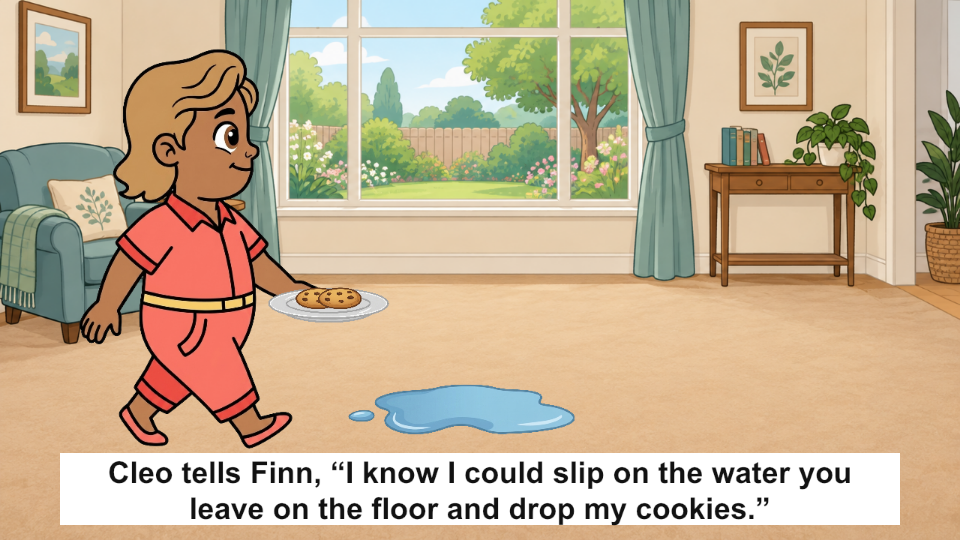
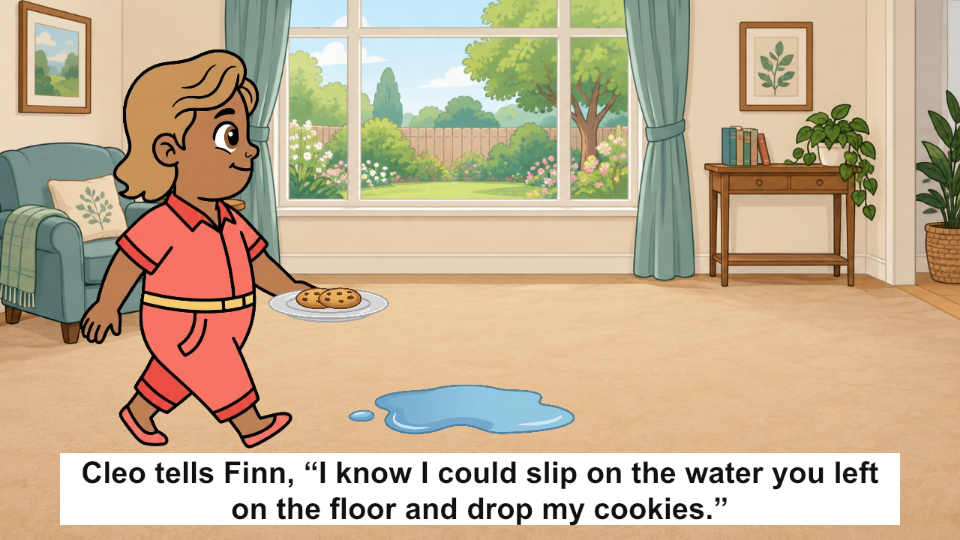
Refresh consent spill knowledge slide from corrected decks

Changed region(s): [[0.0625, 0.8296, 0.9375, 0.9778]]

diff --git a/code/experiments/experiment2/consent/adults/configuration.js b/code/experiments/experiment2/consent/adults/configuration.js
@@ -6,7 +6,7 @@ globalThis.TORT_CONSENT_CONDITIONS = {
     "assetRoot": "",
     "sessionNamespace": "tort_adult_consent_v1_consent_",
     "studyVersion": "adult-consent-1.0.0",
-    "materialsRevision": "436bd840a774",
+    "materialsRevision": "db1630cd45a4",
     "scenarios": [
       {
         "p_name": "Finn",
@@ -19,7 +19,7 @@ globalThis.TORT_CONSENT_CONDITIONS = {
         "v_initial": 2,
         "v_after_harm": 0,
         "harm_amount": 2,
-        "event_text": "Before the loss, Cleo tells Finn, “I know I could slip on the water you leave on the floor and drop my cookies. I’m okay with that.” Finn spills water and doesn't clean it up. Cleo slips on the wet floor and 2 of Cleo's cookies are destroyed.",
+        "event_text": "Before the loss, Cleo tells Finn, “I know I could slip on the water you left on the floor and drop my cookies. I’m okay with that.” Finn spills water and doesn't clean it up. Cleo slips on the wet floor and 2 of Cleo's cookies are destroyed.",
         "event_title": "Finn Spills Water — Cleo Slips",
         "scenario_id": 2,
         "scenario_key": "negligence_spill",
@@ -90,10 +90,10 @@ globalThis.TORT_CONSENT_CONDITIONS = {
           },
           {
             "slide_number": 9,
-            "text": "Cleo tells Finn, “I know I could slip on the water you leave on the floor and drop my cookies.”",
-            "image": "images/review/consent/negligence_spill_09.png?v=a43f1b1563e7",
+            "text": "Cleo tells Finn, “I know I could slip on the water you left on the floor and drop my cookies.”",
+            "image": "images/review/consent/negligence_spill_09.png?v=780fd707bdf2",
             "slide_role": "knowledge",
-            "statement": "I know I could slip on the water you leave on the floor and drop my cookies.",
+            "statement": "I know I could slip on the water you left on the floor and drop my cookies.",
             "speaker": "Cleo",
             "listener": "Finn",
             "slide_id": "negligence_spill:knowledge"
@@ -136,9 +136,9 @@ globalThis.TORT_CONSENT_CONDITIONS = {
         "reminder_image": "images/review/consent/negligence_spill_13.png?v=91fe9e077409",
         "story_cookie_artwork_count": 7,
         "consent_condition": "consent",
-        "consent_knowledge_text": "I know I could slip on the water you leave on the floor and drop my cookies.",
+        "consent_knowledge_text": "I know I could slip on the water you left on the floor and drop my cookies.",
         "consent_response_text": "I’m okay with that.",
-        "victim_statement": "I know I could slip on the water you leave on the floor and drop my cookies. I’m okay with that.",
+        "victim_statement": "I know I could slip on the water you left on the floor and drop my cookies. I’m okay with that.",
         "base_material_experiment": 1,
         "base_material_condition": "victim_not_careless",
         "base_event_text": "Finn spills water and doesn't clean it up. Cleo slips on the wet floor and 2 of Cleo's cookies are destroyed."
@@ -999,7 +999,7 @@ globalThis.TORT_CONSENT_CONDITIONS = {
     "assetRoot": "",
     "sessionNamespace": "tort_adult_consent_v1_no_consent_",
     "studyVersion": "adult-consent-1.0.0",
-    "materialsRevision": "436bd840a774",
+    "materialsRevision": "db1630cd45a4",
     "scenarios": [
       {
         "p_name": "Finn",
@@ -1012,7 +1012,7 @@ globalThis.TORT_CONSENT_CONDITIONS = {
         "v_initial": 2,
         "v_after_harm": 0,
         "harm_amount": 2,
-        "event_text": "Before the loss, Cleo tells Finn, “I know I could slip on the water you leave on the floor and drop my cookies. I’m not okay with that.” Finn spills water and doesn't clean it up. Cleo slips on the wet floor and 2 of Cleo's cookies are destroyed.",
+        "event_text": "Before the loss, Cleo tells Finn, “I know I could slip on the water you left on the floor and drop my cookies. I’m not okay with that.” Finn spills water and doesn't clean it up. Cleo slips on the wet floor and 2 of Cleo's cookies are destroyed.",
         "event_title": "Finn Spills Water — Cleo Slips",
         "scenario_id": 2,
         "scenario_key": "negligence_spill",
@@ -1083,10 +1083,10 @@ globalThis.TORT_CONSENT_CONDITIONS = {
           },
           {
             "slide_number": 9,
-            "text": "Cleo tells Finn, “I know I could slip on the water you leave on the floor and drop my cookies.”",
-            "image": "images/review/no_consent/negligence_spill_09.png?v=a43f1b1563e7",
+            "text": "Cleo tells Finn, “I know I could slip on the water you left on the floor and drop my cookies.”",
+            "image": "images/review/no_consent/negligence_spill_09.png?v=780fd707bdf2",
             "slide_role": "knowledge",
-            "statement": "I know I could slip on the water you leave on the floor and drop my cookies.",
+            "statement": "I know I could slip on the water you left on the floor and drop my cookies.",
             "speaker": "Cleo",
             "listener": "Finn",
             "slide_id": "negligence_spill:knowledge"
@@ -1129,9 +1129,9 @@ globalThis.TORT_CONSENT_CONDITIONS = {
         "reminder_image": "images/review/no_consent/negligence_spill_13.png?v=91fe9e077409",
         "story_cookie_artwork_count": 7,
         "consent_condition": "no_consent",
-        "consent_knowledge_text": "I know I could slip on the water you leave on the floor and drop my cookies.",
+        "consent_knowledge_text": "I know I could slip on the water you left on the floor and drop my cookies.",
         "consent_response_text": "I’m not okay with that.",
-        "victim_statement": "I know I could slip on the water you leave on the floor and drop my cookies. I’m not okay with that.",
+        "victim_statement": "I know I could slip on the water you left on the floor and drop my cookies. I’m not okay with that.",
         "base_material_experiment": 1,
         "base_material_condition": "victim_not_careless",
         "base_event_text": "Finn spills water and doesn't clean it up. Cleo slips on the wet floor and 2 of Cleo's cookies are destroyed."

diff --git a/code/experiments/experiment2/consent/adults/materials-preview.html b/code/experiments/experiment2/consent/adults/materials-preview.html
@@ -7,9 +7,9 @@
 <nav><a href="#negligence_spill">Cleo</a> · <a href="#intentional_hit">Sasha</a> · <a href="#intentional_throw">Rex</a> · <a href="#negligence_phone">Ruby</a> · <a href="#strict_liability_alligator">Ella</a> · <a href="#strict_liability_wolf">Andy</a> · <a href="#control_wind">Katie</a> · <a href="#control_squirrel">Eric</a></nav><section id="negligence_spill">
 <h2>Finn Spills Water — Cleo Slips</h2>
 <p><a href="pilot-preview.html?condition=consent&amp;case=negligence_spill&amp;autostart=1">Play consent case</a> · <a href="pilot-preview.html?condition=no_consent&amp;case=negligence_spill&amp;autostart=1">Play no-consent case</a></p>
-<figure class="knowledge"><figcaption>Same knowledge statement in both conditions</figcaption><a href="images/review/consent/negligence_spill_09.png?v=a43f1b1563e7" target="_blank"><img width="960" height="540" loading="lazy" src="images/review/consent/negligence_spill_09.png?v=a43f1b1563e7" alt="Cleo tells Finn, “I know I could slip on the water you leave on the floor and drop my cookies.”"></a></figure>
+<figure class="knowledge"><figcaption>Same knowledge statement in both conditions</figcaption><a href="images/review/consent/negligence_spill_09.png?v=780fd707bdf2" target="_blank"><img width="960" height="540" loading="lazy" src="images/review/consent/negligence_spill_09.png?v=780fd707bdf2" alt="Cleo tells Finn, “I know I could slip on the water you left on the floor and drop my cookies.”"></a></figure>
 <div class="responses"><figure><figcaption>Consent</figcaption><a href="images/review/consent/negligence_spill_10.png?v=f63b9b7ae1c6" target="_blank"><img width="960" height="540" loading="lazy" src="images/review/consent/negligence_spill_10.png?v=f63b9b7ae1c6" alt="Cleo tells Finn, “I’m okay with that.”"></a></figure><figure><figcaption>No consent</figcaption><a href="images/review/no_consent/negligence_spill_10.png?v=4022873899c0" target="_blank"><img width="960" height="540" loading="lazy" src="images/review/no_consent/negligence_spill_10.png?v=4022873899c0" alt="Cleo tells Finn, “I’m not okay with that.”"></a></figure></div>
-<p>Complete editable case: <a href="slides/consent/negligence_spill.pptx?v=def8ed040c12">Consent PowerPoint</a> · <a href="slides/no_consent/negligence_spill.pptx?v=e5397de1599d">No-consent PowerPoint</a></p>
+<p>Complete editable case: <a href="slides/consent/negligence_spill.pptx?v=af31e351c480">Consent PowerPoint</a> · <a href="slides/no_consent/negligence_spill.pptx?v=774cee960771">No-consent PowerPoint</a></p>
 <details><summary>Story slides immediately before and after the statements</summary><div class="responses"><figure><figcaption>Before</figcaption><img width="960" height="540" loading="lazy" src="images/review/consent/negligence_spill_08.png?v=af22f0ff495f" alt="Cleo walks in."></figure><figure><figcaption>After</figcaption><img width="960" height="540" loading="lazy" src="images/review/consent/negligence_spill_11.png?v=c1c76f0709a3" alt="Oh no! Cleo slips on the water!"></figure></div></details>
 </section>
 <section id="intentional_hit">

diff --git a/code/experiments/experiment2/consent/adults/pilot-preview.html b/code/experiments/experiment2/consent/adults/pilot-preview.html
@@ -40,7 +40,7 @@
   </div>
   <div id="jspsych-target"></div>
   <script>globalThis.TORT_LOCAL_OPTIONS={review:true,mute:true};</script>
-  <script src="configuration.js?v=08eaa7760798"></script>
+  <script src="configuration.js?v=4b6ee031c2d0"></script>
   <script src="study.js?v=0122cb8ea5cf"></script>
   <script src="review.js?v=f8085118f955"></script>
 </body>

diff --git a/code/experiments/experiment2/consent/adults/index.html b/code/experiments/experiment2/consent/adults/index.html
@@ -12,7 +12,7 @@
 </head>
 <body>
   <div id="jspsych-target"><p style="text-align:center;font:18px system-ui;padding:40px">Loading study…</p></div>
-  <script src="configuration.js?v=08eaa7760798"></script>
+  <script src="configuration.js?v=4b6ee031c2d0"></script>
   <script src="study.js?v=0122cb8ea5cf"></script>
 </body>
 </html>
